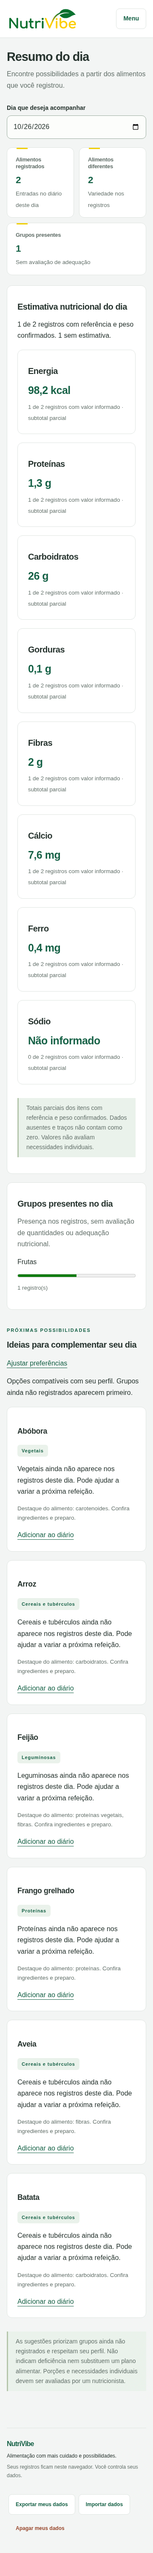
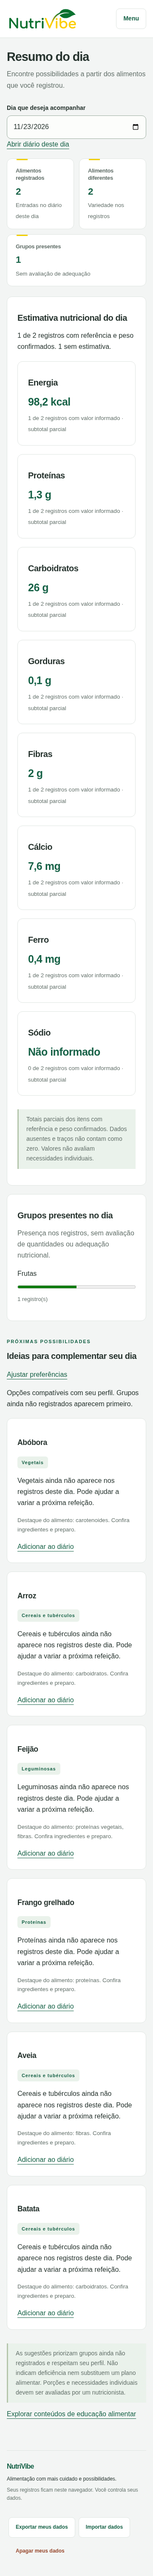
Registra validação e roteiro da apresentação do MVP

Changed region(s): [[0.0611, 0.0, 0.825, 0.9671], [0.7639, 0.0936, 0.825, 0.1248], [0.1222, 0.468, 0.1528, 0.4992]]

diff --git a/NutriVibe/documentacoes/relatorio-projeto/README.md b/NutriVibe/documentacoes/relatorio-projeto/README.md
@@ -11,6 +11,29 @@ A redação descreve o problema, a solução e as funcionalidades disponíveis, 
 
 O planejamento inclui as 32 tarefas do backlog, com códigos e títulos reais. As telas e os testes são apresentados com imagens e explicações no próprio texto. O cenário de interface utiliza dados de teste, identificados como tal, sem apresentar acompanhamento real de uma criança.
 
+## Roteiro da demonstração do MVP
+
+1. Abra a landing page e selecione **Experimentar aplicativo**. Mostre o painel e os atalhos para as telas principais. [Abrir NutriVibe](https://nutrivibe-gamma.vercel.app/)
+2. Em **Preferências**, use um perfil fictício. Marque lactose e salve. Abra o diário e mostre que o filtro de compatibilidade esconde leite.
+3. Selecione o almoço e pesquise banana no diário. Registre **Banana, prata, crua**, com 100 g. A referência TACO resulta em uma estimativa de 98,2 kcal para esse item.
+4. Em **Refeições registradas**, abra **Ver sugestões para o dia**. Confira o dia selecionado, os totais e as sugestões compatíveis. Abra **Adicionar ao diário** em uma sugestão para mostrar que o catálogo abre com o alimento e a data selecionados.
+5. Abra **Aprender** pela navegação e mostre o conteúdo educativo. Em um celular, demonstre o menu e a adaptação das telas.
+
+A entrada por foto é opcional na apresentação. O modelo roda no navegador e o primeiro download tem cerca de 112 MB. Use uma foto clara de banana e confirme o alimento, o preparo e o peso antes de salvar. O catálogo permite completar o fluxo manualmente.
+
+## Verificação de 23/11/2026
+
+- `npm test` executou seis arquivos de testes com sucesso. `npm run build` verificou a integridade do modelo SigLIP e preparou os arquivos de publicação.
+- O Chromium validou as cinco telas em 360, 768 e 1280 px, o menu por teclado, a persistência após recarregar e o percurso diário → resumo → sugestão com a mesma data. Também foram exercitados o reconhecimento de uma foto de banana, a resposta a uma imagem inconclusiva, a importação de backup e a exclusão de registros.
+- O percurso principal passou com os arquivos de `public/` servidos estaticamente. Em produção, o formulário complementar gravou um contato técnico com resposta HTTP 201. As capturas abaixo foram obtidas no endereço público com dados fictícios.
+- Testes de navegador em Firefox e Safari seguem pendentes.
+
+| Largura | Visão geral | Resumo e sugestões |
+|---|---|---|
+| 360 px | [Painel](../evidencias/visao-geral-360.png) | [Resumo](../evidencias/recomendacoes-360.png) |
+| 768 px | [Painel](../evidencias/visao-geral-768.png) | [Resumo](../evidencias/recomendacoes-768.png) |
+| 1280 px | [Painel](../evidencias/visao-geral-1280.png) | [Resumo](../evidencias/recomendacoes-1280.png) |
+
 ## Reprodução
 
 Na raiz do repositório, com Python, python-docx e LibreOffice:

diff --git a/README.md b/README.md
@@ -10,7 +10,7 @@ npm run build
 npm start
 ```
 
-Abra a raiz do servidor para a landing page ou `/html/aplicativo/index.html` para o aplicativo. A porta padrão é 8080; use `PORT` se necessário. O build prepara a biblioteca TensorFlow.js e o modelo local; na primeira execução precisa de acesso à origem oficial Google.
+Abra a raiz do servidor para a landing page ou `/html/aplicativo/index.html` para o aplicativo. A porta padrão é 8080. Use `PORT` para escolher outra porta. O build prepara o ONNX Runtime Web e baixa o modelo SigLIP do Hugging Face se o arquivo ainda não estiver em cache.
 
 ## Organização
 
@@ -49,4 +49,6 @@ Configuração Vercel na raiz do repositório, com API serverless e PostgreSQL N
 - Landing page: https://nutrivibe-gamma.vercel.app
 - Aplicativo: https://nutrivibe-gamma.vercel.app/app
 
-Deploy de produção confirmado como READY na Vercel. O reconhecimento local substitui a integração paga. O banco Neon permanece conectado. Consulte as evidências e os limites na documentação.
+Em 23/11/2026, a Vercel confirmou o deploy de produção `dpl_6f4ijAR3MBdTm8Jgb6hjqEqzJjbU` com código do commit `2c8c65b`. A navegação entre diário, resumo e sugestões preserva o dia selecionado.
+
+O percurso acadêmico roda no navegador com HTML, CSS, JavaScript, catálogo local e `localStorage`. O cadastro de interesse da landing page é um recurso complementar com API e Neon. Consulte o [roteiro de apresentação e o PDF da entrega](NutriVibe/documentacoes/relatorio-projeto/README.md).
